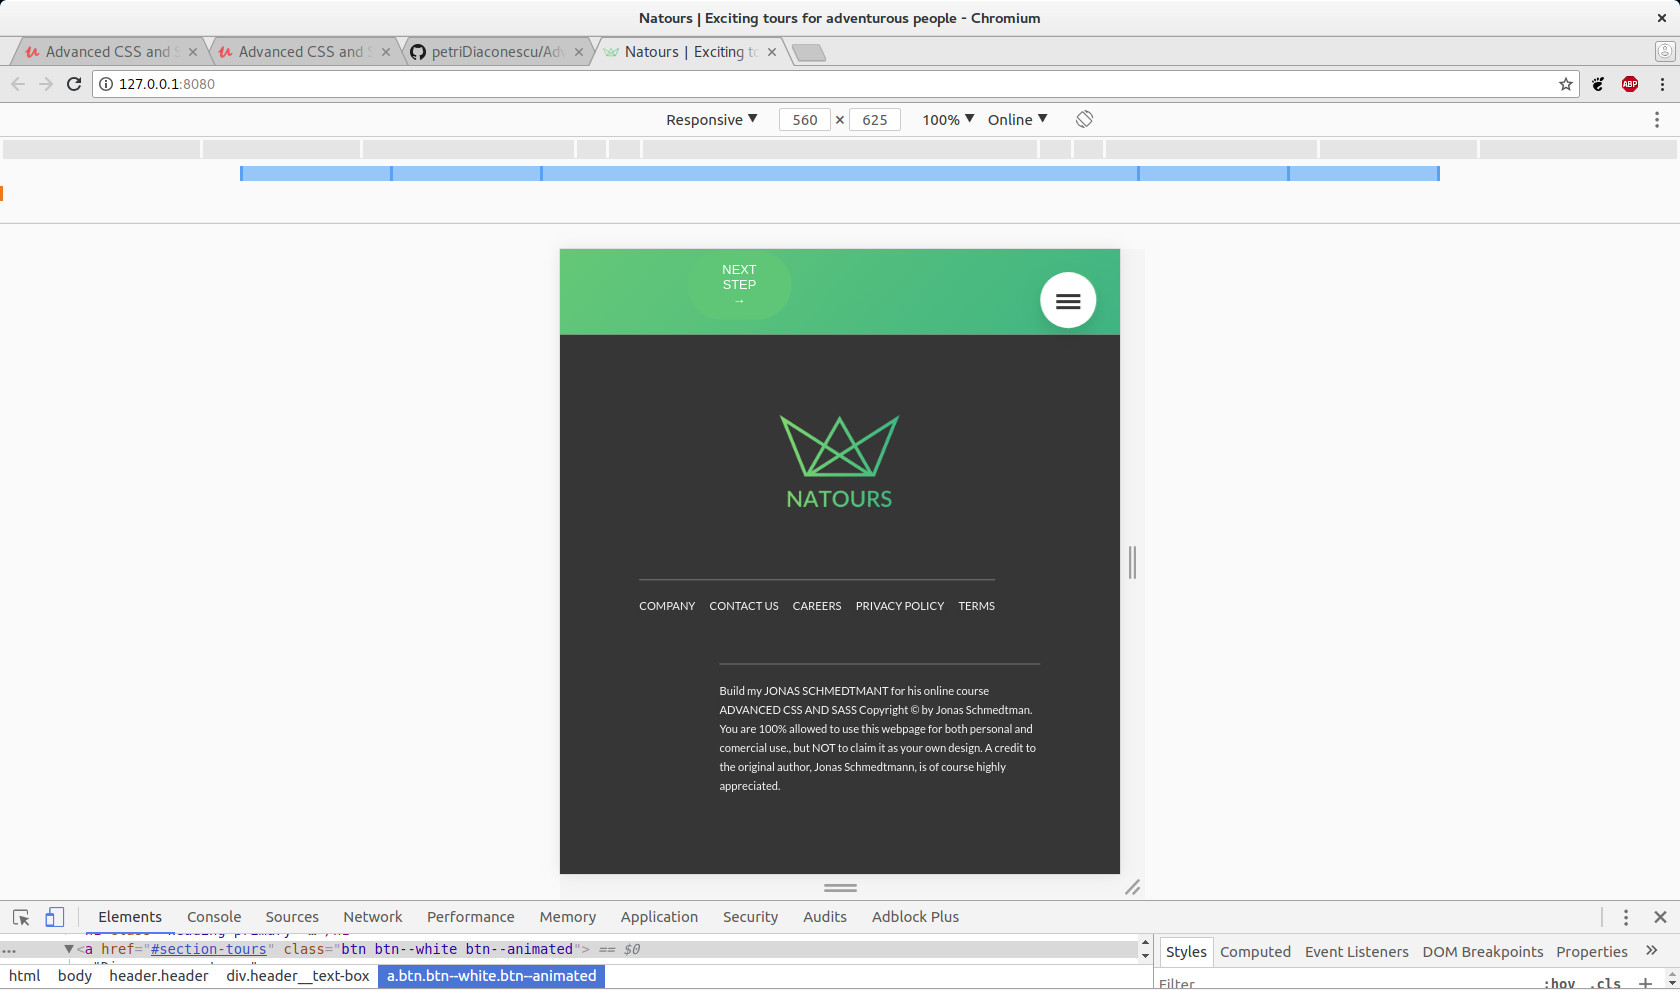
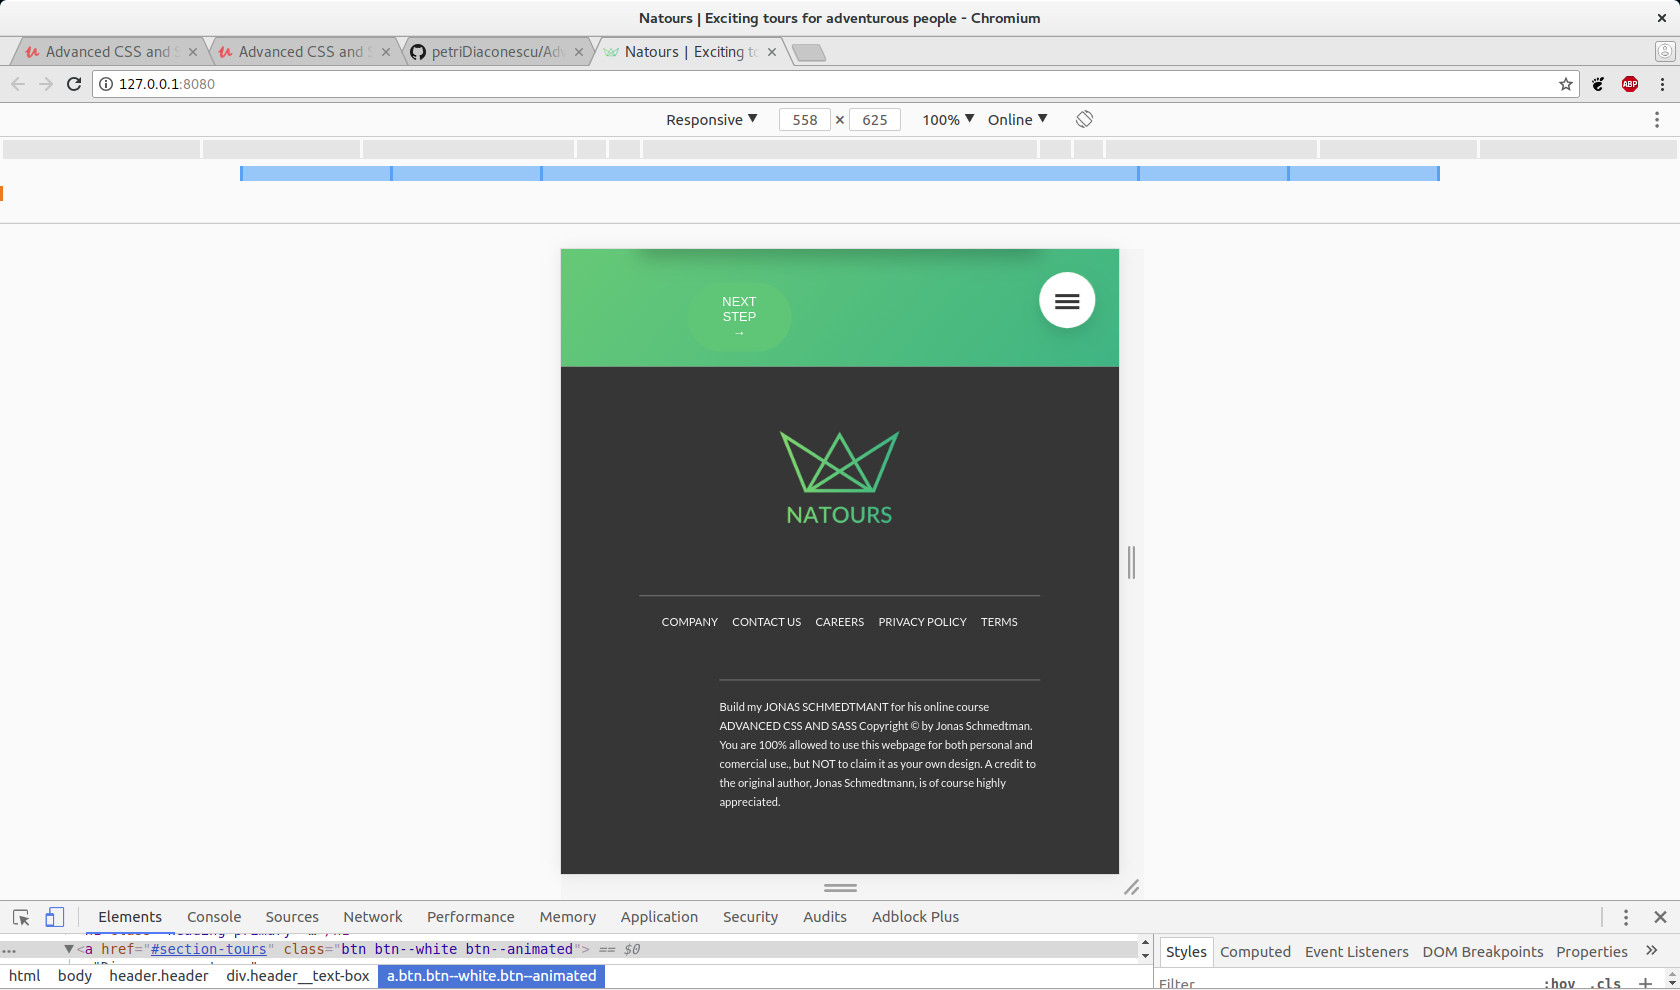
Get rid of the float for footer__copyright.

diff --git a/sass/layout/_footer.scss b/sass/layout/_footer.scss
@@ -67,6 +67,11 @@
     padding-top: 2rem;
     width: 80%;
     float: right;
+    
+    @include respond(tab-port){
+      width: 100%;
+      float: none;
+    }
   }
 }
 
